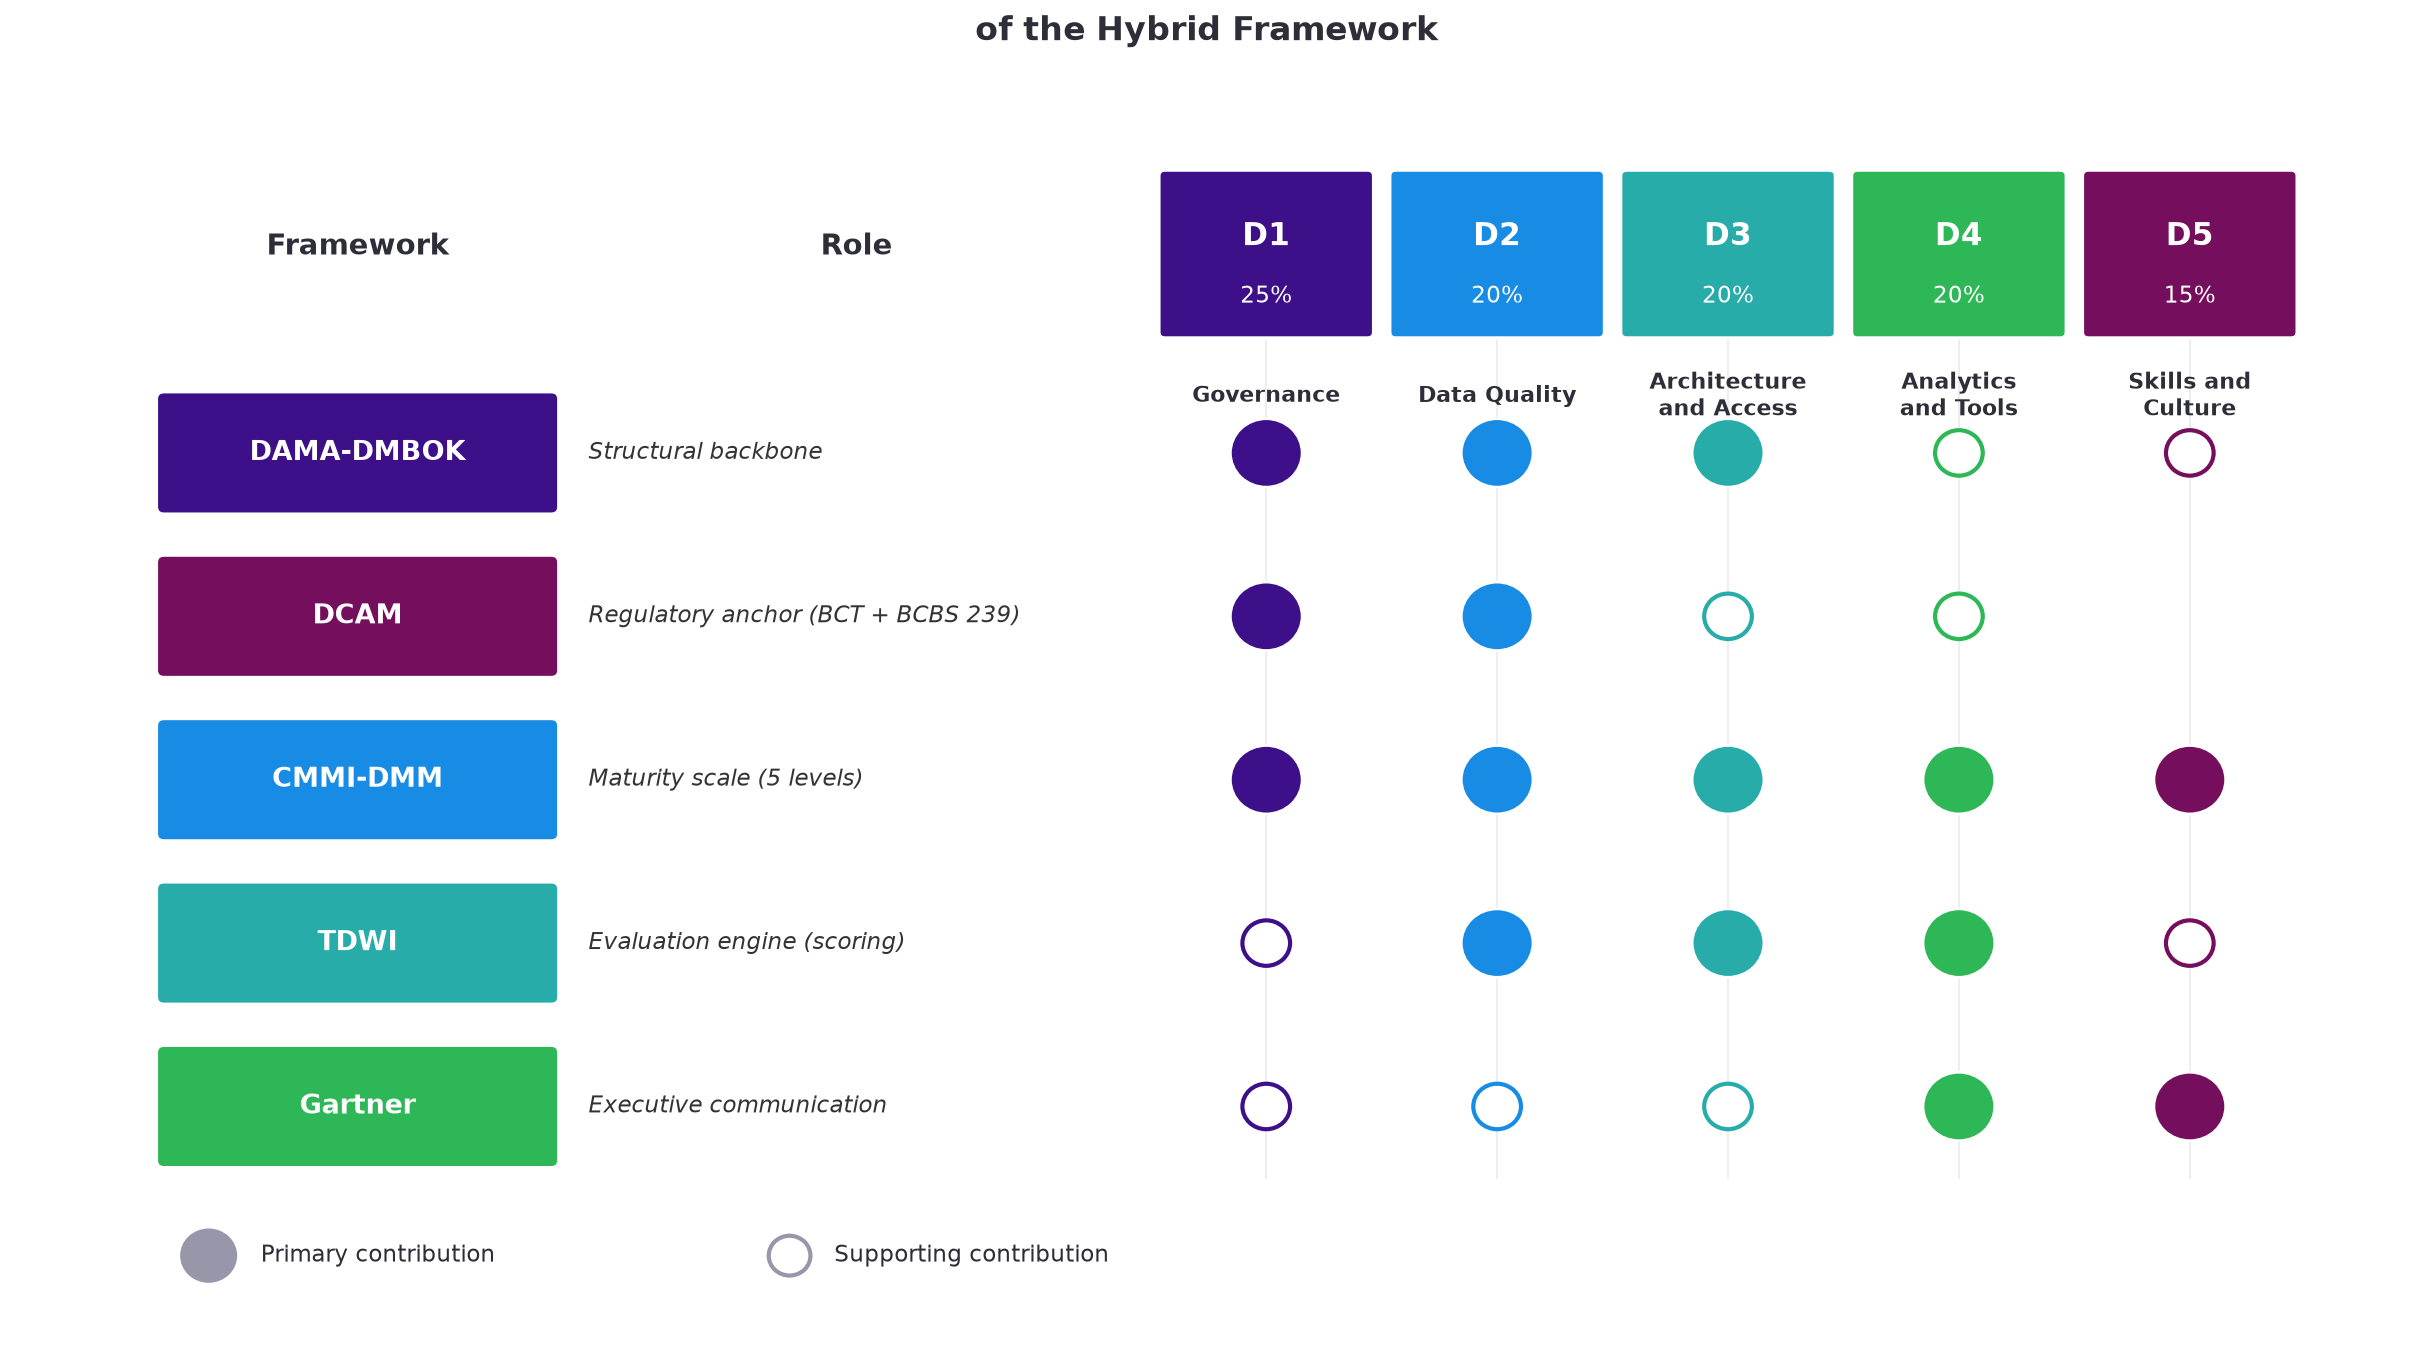
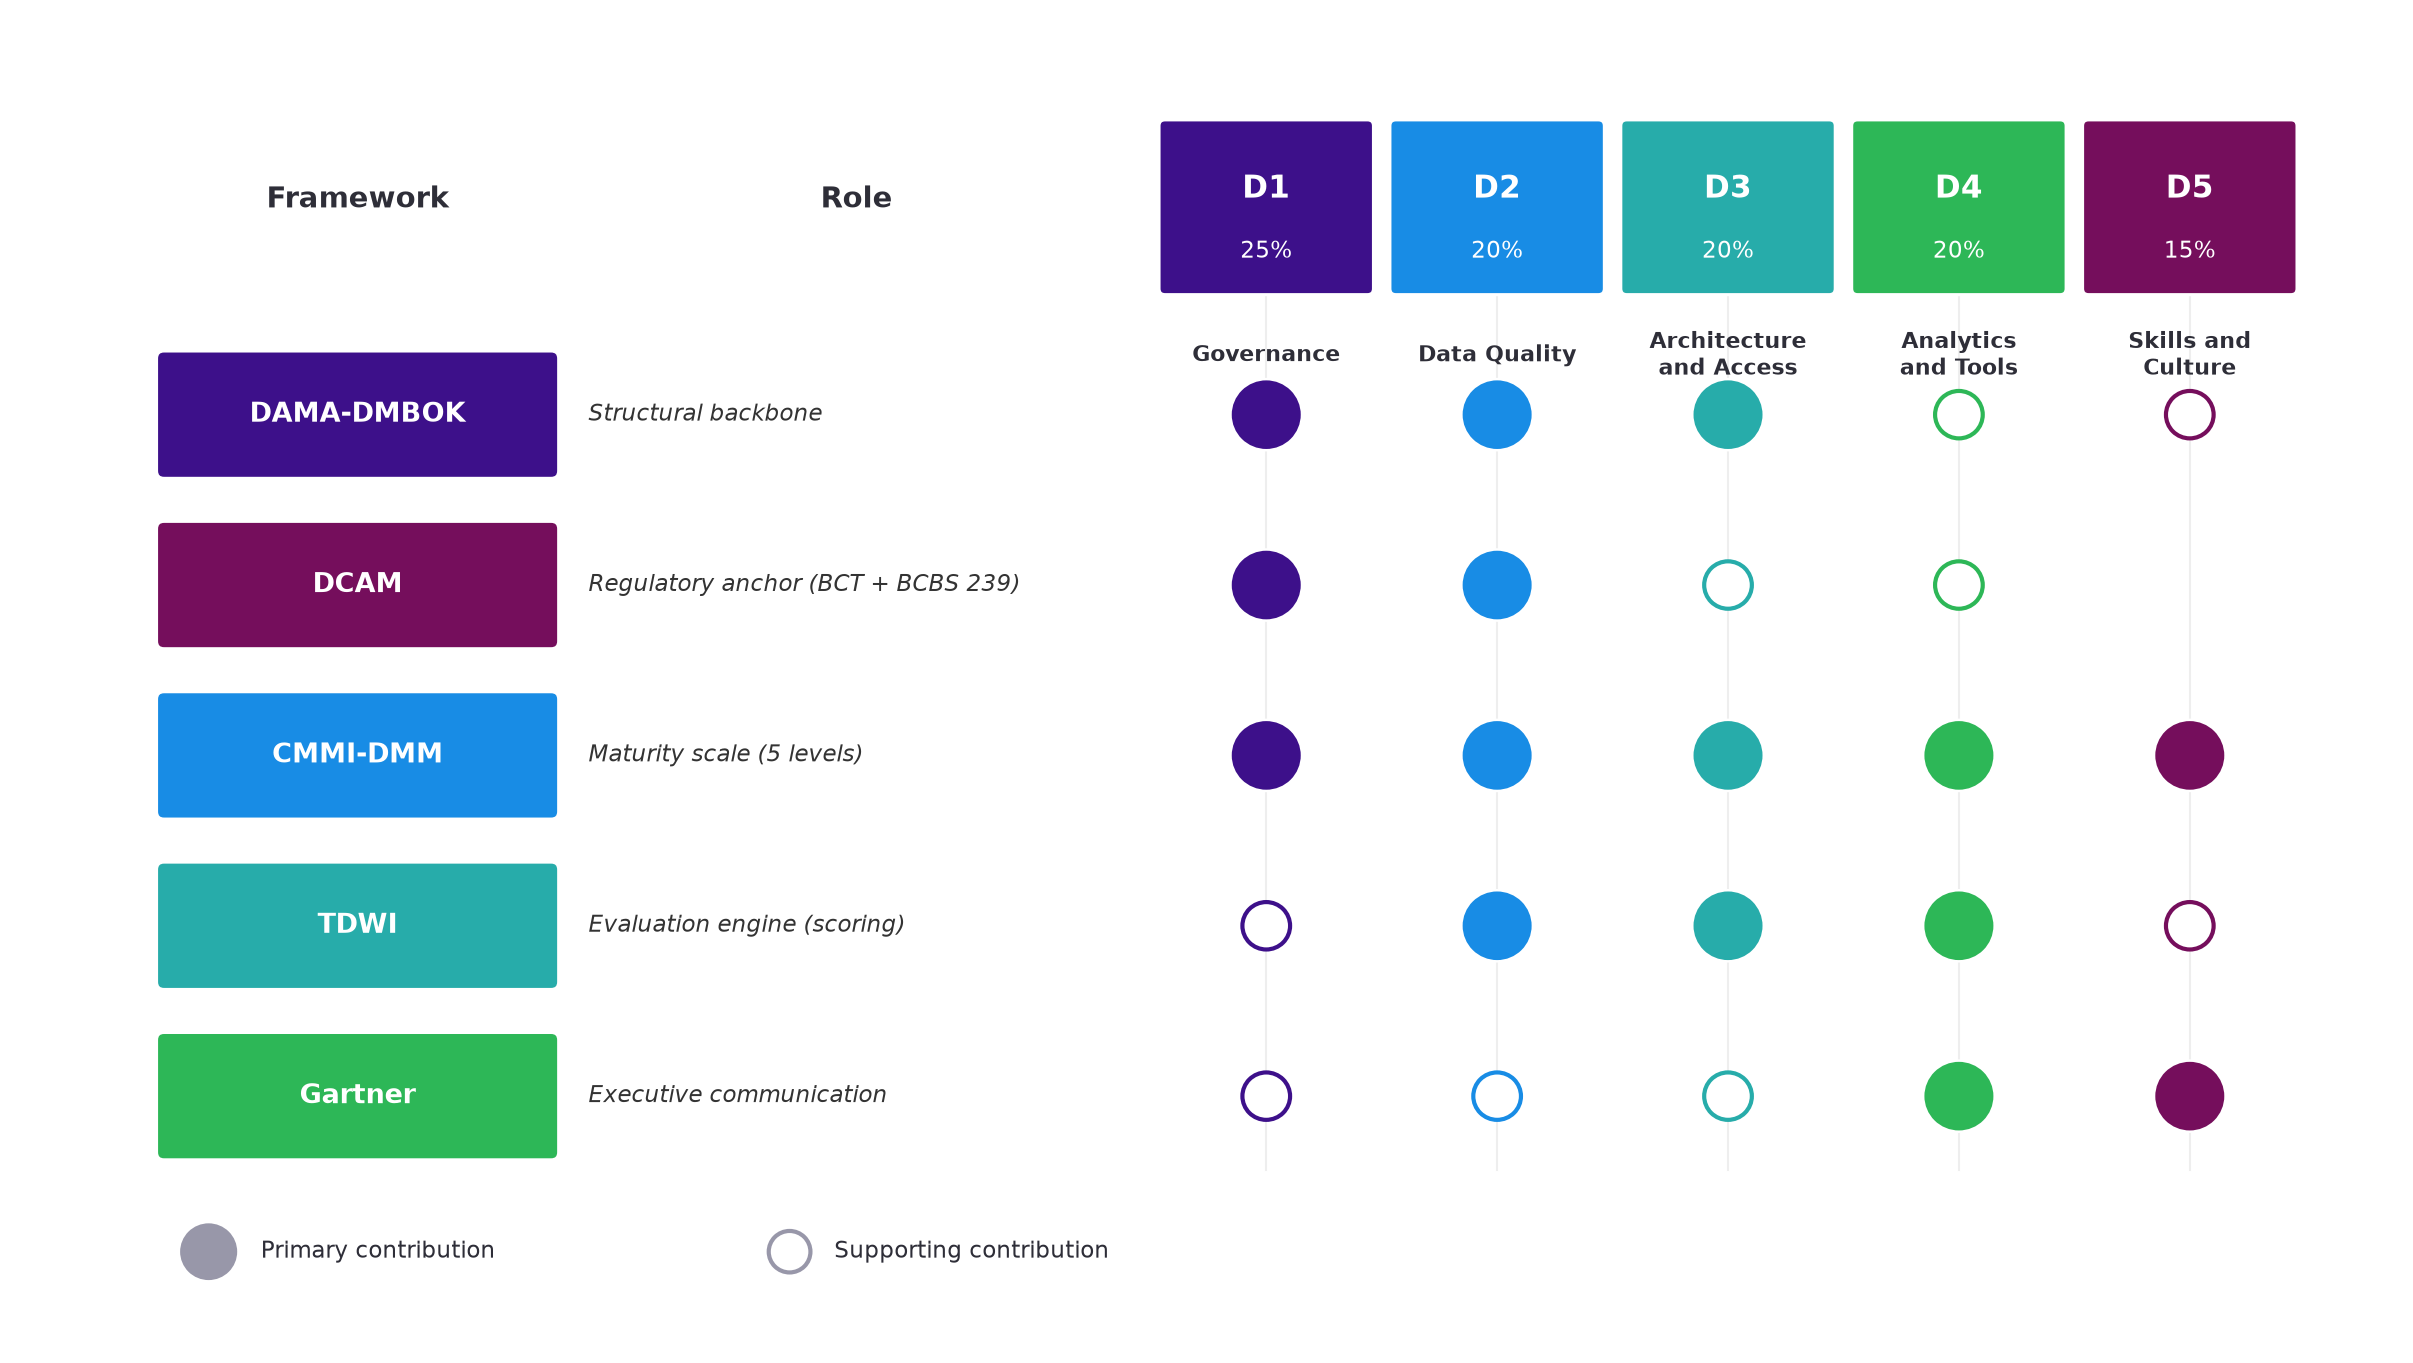
Fix Figure 1 truncated title and Table 7 caption/L6 placement
- Remove the broken in-figure heading 'of the Hybrid Framework' from the
  benchmark-contribution diagram (the caption already describes it).
- Table of project phases: caption now acknowledges the transversal workstream
  (seven rows, not six), and the (L6) tag is attached to the methodology
  document rather than the kickoff presentation.

Claude-Session: https://claude.ai/code/session_01Yb46ujynRQ8QnatMZG1uPs

diff --git a/pfe_report/diagrams/hybrid_mapping.py b/pfe_report/diagrams/hybrid_mapping.py
@@ -129,9 +129,8 @@ ax.add_patch(Circle((NAME_X + 2.9, leg_y), 0.14, facecolor='white',
 ax.text(NAME_X + 3.2, leg_y, 'Supporting contribution', ha='left', va='center',
         fontsize=11, color=CHARCOAL)
 
-ax.set_title(''
-             'of the Hybrid Framework',
-             fontsize=16, fontweight='bold', pad=14, color=CHARCOAL)
+# No baked-in title: the figure caption describes the diagram (avoids the
+# truncated in-figure heading that appeared previously).
 
 plt.tight_layout(pad=0.4)
 plt.savefig('../images/hybrid-mapping.pdf',

diff --git a/pfe_report/Section Files/methodology.tex b/pfe_report/Section Files/methodology.tex
@@ -114,7 +114,7 @@ Beyond the research and development methodologies, the project itself was conduc
 \hline
 \textbf{Phase} & \textbf{Period} & \textbf{Focus and key tasks} & \textbf{Key deliverables} \\
 \hline
-Phase 0: Framing & 2 to 13 February 2026 & Team integration; project scoping; benchmark and documentary research; methodology definition; project plan; kickoff preparation and presentation & Methodology document, project plan, kickoff presentation (L6) \\
+Phase 0: Framing & 2 to 13 February 2026 & Team integration; project scoping; benchmark and documentary research; methodology definition; project plan; kickoff preparation and presentation & Methodology document (L6), project plan, kickoff presentation \\
 \hline
 Phase 1: Analysis of the existing situation & 16 February to 6 March 2026 & Stakeholder cartography; operational review; conceptual review; identification of limits and risks & Stakeholder map (L1); existing-situation analysis report (L2) \\
 \hline
@@ -129,7 +129,7 @@ Phase 5: Deployment & 6 to 31 July 2026 & Final deployment and validation; resul
 Transversal & 16 February to 31 July 2026 & Report writing; risk management; project steering and weekly meetings & Continuous steering; final report (L11) \\
 \hline
 \end{tabular}
-\caption{The six project phases: period, focus, and key deliverables}
+\caption{The six project phases and the transversal workstream: period, focus, and key deliverables}
 \label{tab:project-phases}
 \end{table}
 \end{landscape}